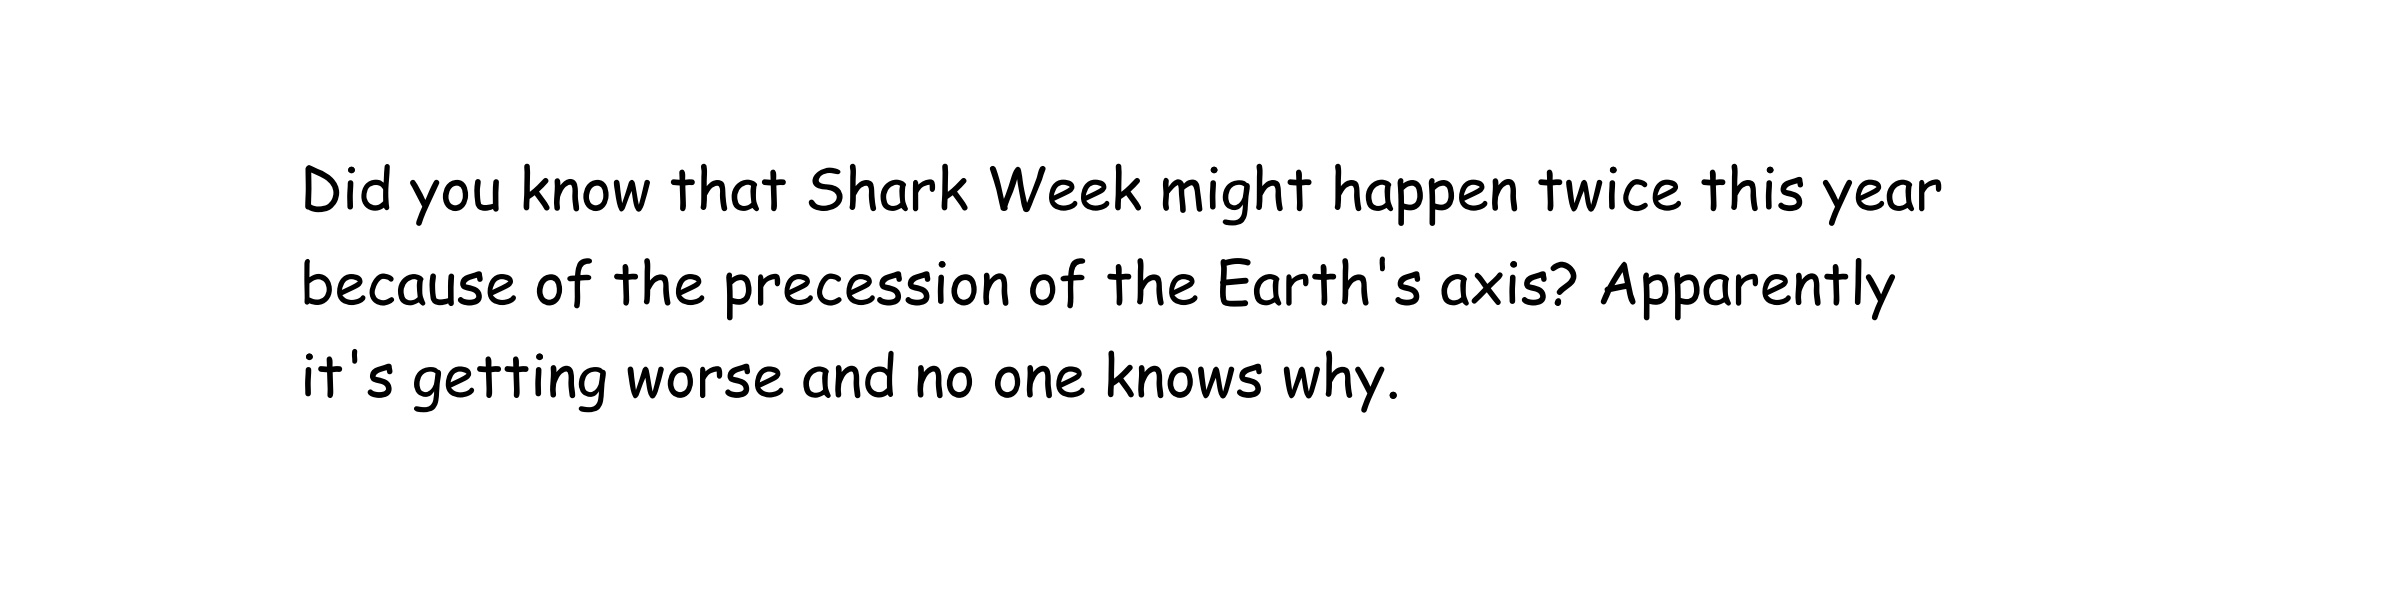
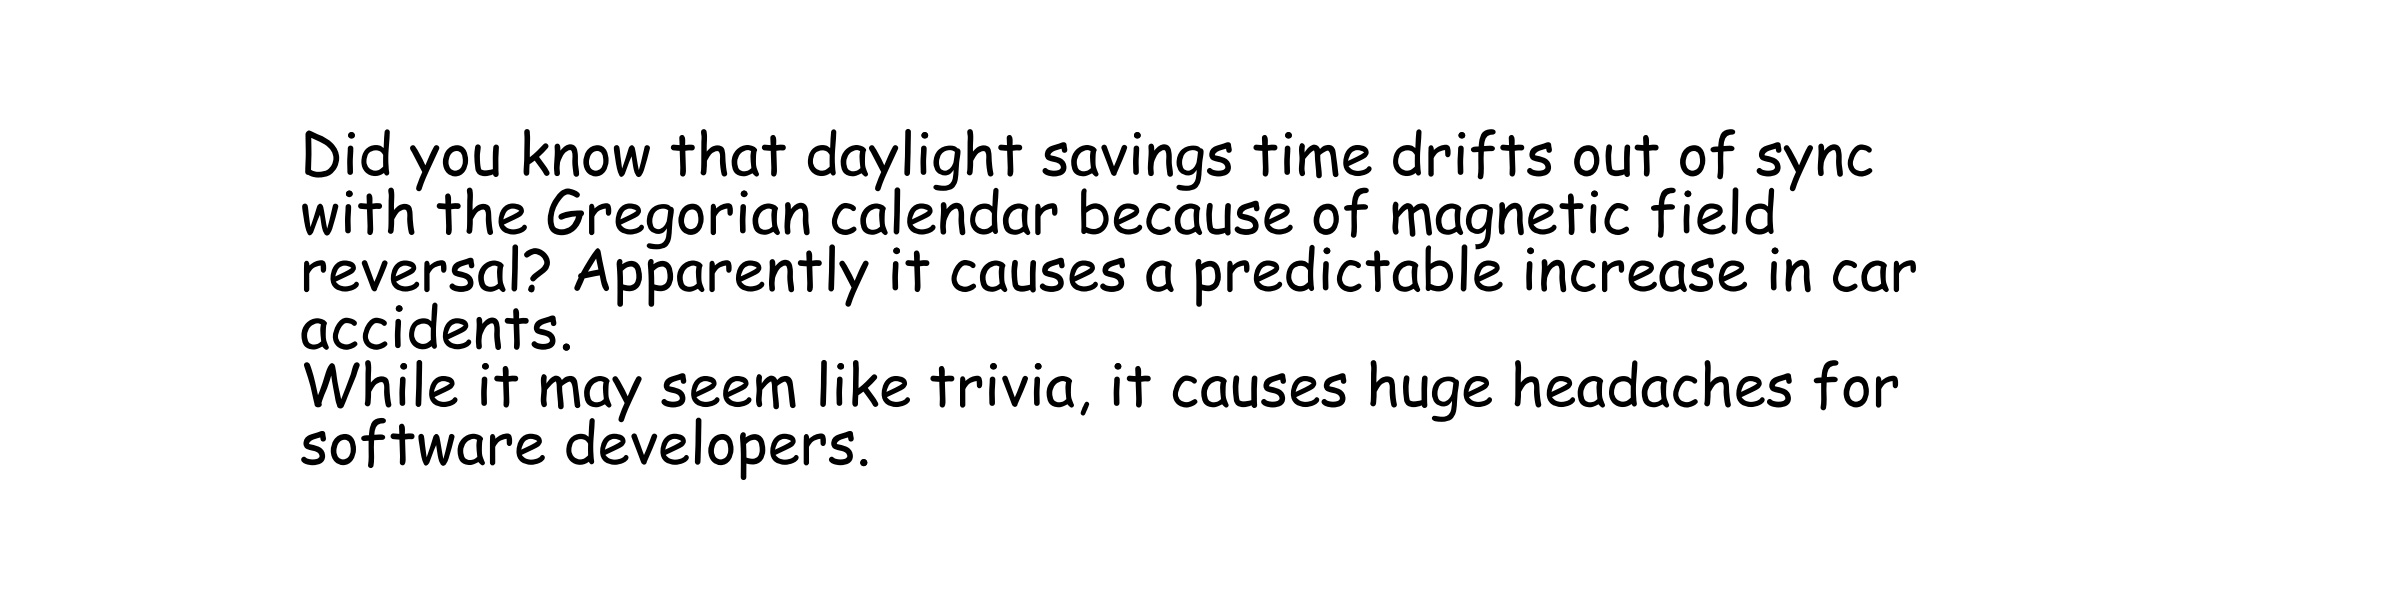
Add title-trivia sentences

Changed region(s): [[0.125, 0.21, 0.8125, 0.69], [0.125, 0.72, 0.375, 0.78]]

diff --git a/xkcd1930.py b/xkcd1930.py
@@ -86,9 +86,15 @@ class Xkcd1930:
             return False
 
         logger.info(f"Generating image for statement: '{self.statement}'")
-        wrapped_string = textwrap.wrap(self.statement, CFG["LINE_CHAR_LENGTH"])
-        N_LINES = len(wrapped_string)
+        wrapped_string = []
+        for line in self.statement.splitlines():
+            wrapped_string.extend(
+                textwrap.wrap(
+                    line, width = CFG["LINE_CHAR_LENGTH"], replace_whitespace = False,
+                )
+            )
 
+        N_LINES = len(wrapped_string)
         fig, axs = pltlib.subplots(figsize = CFG["FIG_SIZE"])
         LINE_SPACING = 1.
         TEXT_START_Y = 1.
@@ -118,6 +124,7 @@ class Xkcd1930:
             self.append_second_block,
             self.append_third_block,
             self.append_fourth_block,
+            self.append_trivia_block,
         )
         for call in calls:
             call()
@@ -275,6 +282,20 @@ class Xkcd1930:
                     "might be unconstitutional."
                 )
             )
+
+
+    def append_trivia_block(self):
+        """Apped the trivia block, which starts with a new line, to the current statement"""
+        self.statement += "\nWhile it may seem like trivia, it "
+        self.add_choice_to_statement(
+            (
+                "causes huge headaches for software developers.",
+                "is taken advantage of by high-speed traders.",
+                "triggered the 2003 Northeast Blackout.",
+                "has to be corrected for by GPS satellites.",
+                "is now recognized as a major cause of World War I.",
+            )
+        )
 
 
     def initiate_block(self, pool: tuple) -> int:

diff --git a/test/test_xkcd1930.py b/test/test_xkcd1930.py
@@ -192,6 +192,19 @@ class test_Xkcd1930(ut.TestCase):
         )
 
 
+    def test_append_trivia_block(self):
+        possible_results = (
+            "\nWhile it may seem like trivia, it causes huge headaches for software developers.",
+            "\nWhile it may seem like trivia, it is taken advantage of by high-speed traders.",
+            "\nWhile it may seem like trivia, it triggered the 2003 Northeast Blackout.",
+            "\nWhile it may seem like trivia, it has to be corrected for by GPS satellites.",
+            "\nWhile it may seem like trivia, it is now recognized as a major cause of World War I.",
+        )
+        self.block_appending_methods_test_auxiliary_call(
+            self.tester.append_trivia_block, possible_results
+        )
+
+
     def test_add_choice_to_statement(self):
         OPTION = "Same options"
         self.tester.add_choice_to_statement((OPTION, OPTION))
